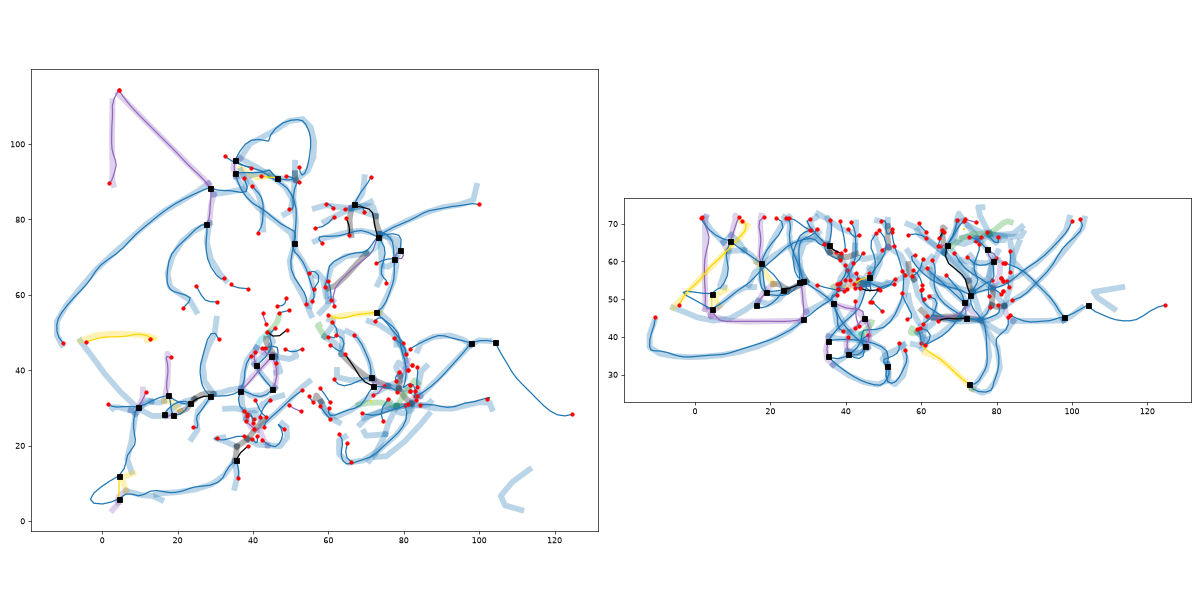
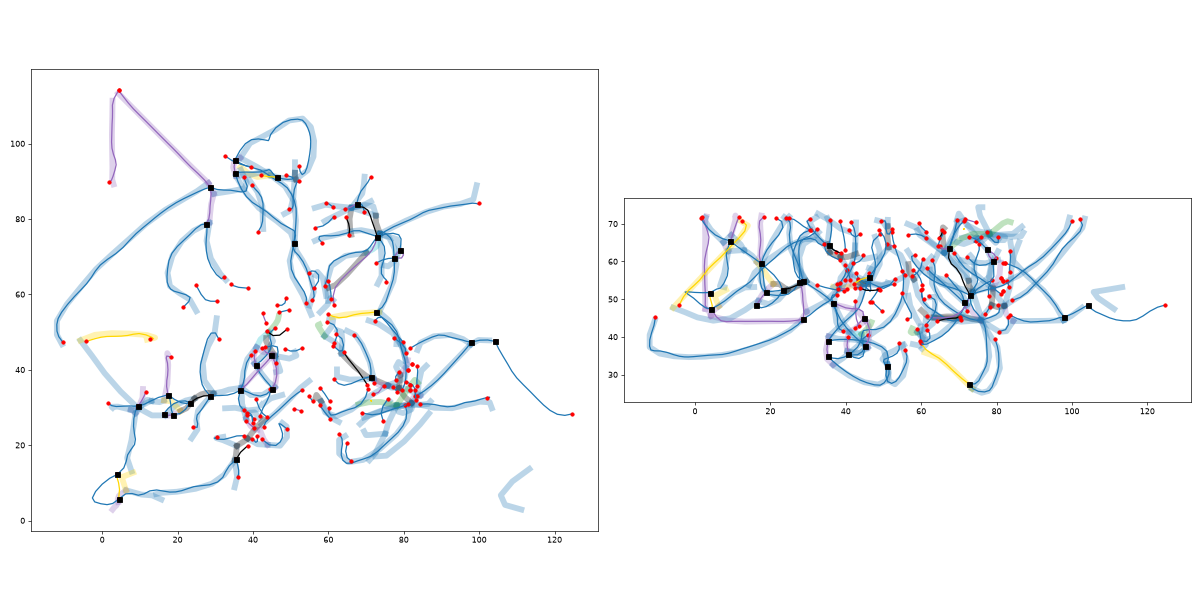
Report: morning summary, preview fast-forwarded

diff --git a/REPORT.md b/REPORT.md
@@ -24,8 +24,22 @@
 | `wcp-shells-draft` | Warren–Cowley 多壳层（按截断半径或按近邻数），基于 dxa-network-draft | 已推送 |
 | `vasp-calculator-draft` | VASP 计算器（超算上用），基于 wcp-shells-draft | 已推送 |
 | `ptm-draft` | PTM（多面体模板匹配，按方案 A 移植），基于 preview-2026-10-23 | 已推送，CI 全绿 |
-| `dxa-full-draft` | 完整版 DXA（Delaunay 剖分、弹性映射、界面网格上的 Burgers 回路，全部 C++），基于 ptm-draft | 已推送，CI 中 |
-| **`preview-2026-10-23`** | **上面所有草稿合在一起（就是 vasp-calculator-draft 的末端），1733 个测试全过** | 已推送，CI 中 |
+| `dxa-full-draft` | 完整版 DXA（Delaunay 剖分、弹性映射、界面网格上的 Burgers 回路，全部 C++），基于 ptm-draft | 已推送，CI 全绿（9268a8e） |
+| **`preview-2026-10-23`** | **上面所有草稿合在一起，已快进到 dxa-full-draft 的末端（9268a8e），1794 个测试全过** | 已推送，CI 全绿 |
+
+
+## 早上先看这里（05:06）
+
+- 你说的两件事都做完了：**PTM**（方案 A，`ptm-draft`）和**完整版 DXA**（`dxa-full-draft`）。`preview-2026-10-23` 已快进到最新，包含今晚全部草稿，本地 1794 个测试、覆盖率、文档、TSan、GCC 警告通过，CI 9 项全绿。
+- DXA 现在是 OVITO 同样的算法：Delaunay 剖分 → 弹性映射 → 界面网格 → Burgers 回路扫掠，全部 C++。和 OVITO 3.17 对比：
+  - 螺/刃（分解）/剪切环/Shockley 环/bcc 环/平板/三斜盒子/热噪声 0.15 Å：线、类别、Burgers 矢量都一样，长度差几个百分点；
+  - Frank 环：OVITO 的 6 条 Shockley + 6 条压杆位错、6 个四度结点，一模一样；
+  - 交叉环反应：fcc 滑移结点、Lomer 锁、bcc ⟨100⟩ 结点，都和 OVITO 一致；
+  - LAMMPS 压痕（7.2 万原子）：线长的 84–99% 在 OVITO 同 Burgers 矢量的线 3 Å 内，OVITO 的 78–93% 在我们的线旁边；差别在压头下极畸变区（OVITO 的 “other” 线）和结点。
+  - 速度比 OVITO 快 10–25%，内存约 1.9 倍。
+- 要你定的在最后一节第 12 条（多晶、hcp/金刚石、按 PTM 模板拓扑映射）。
+
+![交叉环：a/2[1-10](111) 与 a/2[011](11-1) 交叉处反应成 a/2[101] 的短线（mdapy 渲染，箭头是 Burgers 矢量）](images/40_crossing_loops.png)
 
 ## 进展
 
@@ -327,6 +341,12 @@
 - **不给取向时自动确定**（cb45ef2）：以前不给 `orientation` 就当立方轴，任意转动的单晶所有原子都会被当成错配、什么都找不到（OVITO 不要求给取向）。现在从 PTM 求晶体的平均取向（各原子按立方对称对齐到拟合最好的那个原子后取平均、正交化），取离盒子轴最近的立方等价取向，离盒子轴 1° 以内就直接用盒子轴。结果新增 `orientation`（`lattice_burgers` 的坐标轴）。测试：任意取向的螺位错不给取向，b、芯部和给定取向时一致。
 - **热运动下更稳**（211c7aa）：随机位移 0.15 Å（远高于室温）时 PTM（RMSD 截断 0.1）把四分之一的晶体判成 other，剪切环断成 5 段，而 OVITO 仍是一整条。现在 PTM 判为 other、但自适应 CNA 判为晶格（fcc 里也包括 hcp 层错）的原子也算晶体，取向用它最佳模板的；没有取向的当错配。0.15 Å 下整条环（与 OVITO 一致，1.00/1.00），0.2 Å 两边都找不到；压痕结果基本不变。加了对应测试。放宽 PTM 截断本身（0.15–0.25）试过，会损害压痕的精度，所以没用。
 - cb45ef2 之前的提交 CI 全绿（9 项，含 ASan/TSan/覆盖率里的 OVITO 对比）；211c7aa 的 CI 在跑，绿了就把 `preview-2026-10-23` 快进过来。
+
+### 05:06
+- 三斜盒子的测试（剪切 4% 的偶极子，与 OVITO 一致）；网格对边找不到时当边界而不报错（9268a8e）。CI 9 项全绿，`preview-2026-10-23` 已快进到 9268a8e。
+- 压痕 20000 步的最终对比图：
+
+![压痕 20000 步：粗半透明是 OVITO，细线是 mdapy，红点线端，黑方块结点](images/39_dxa_final_indent.png)
 
 ## 早上需要你决定的事
 
